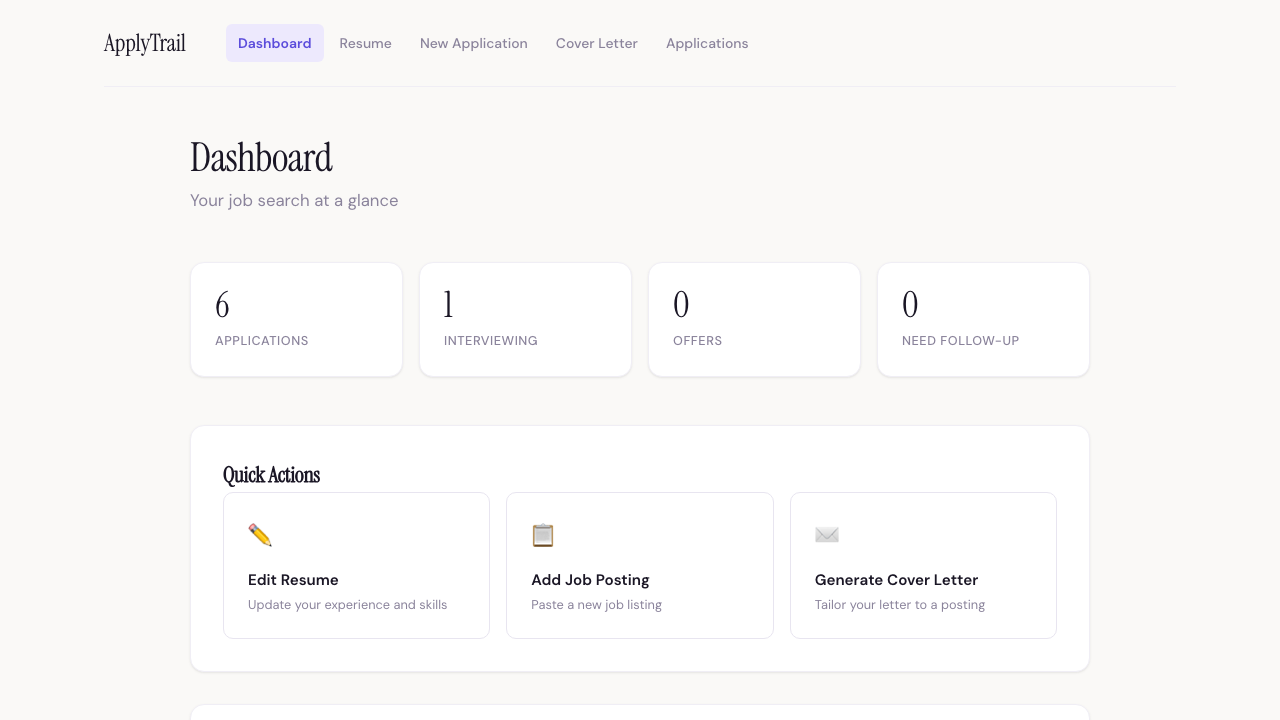
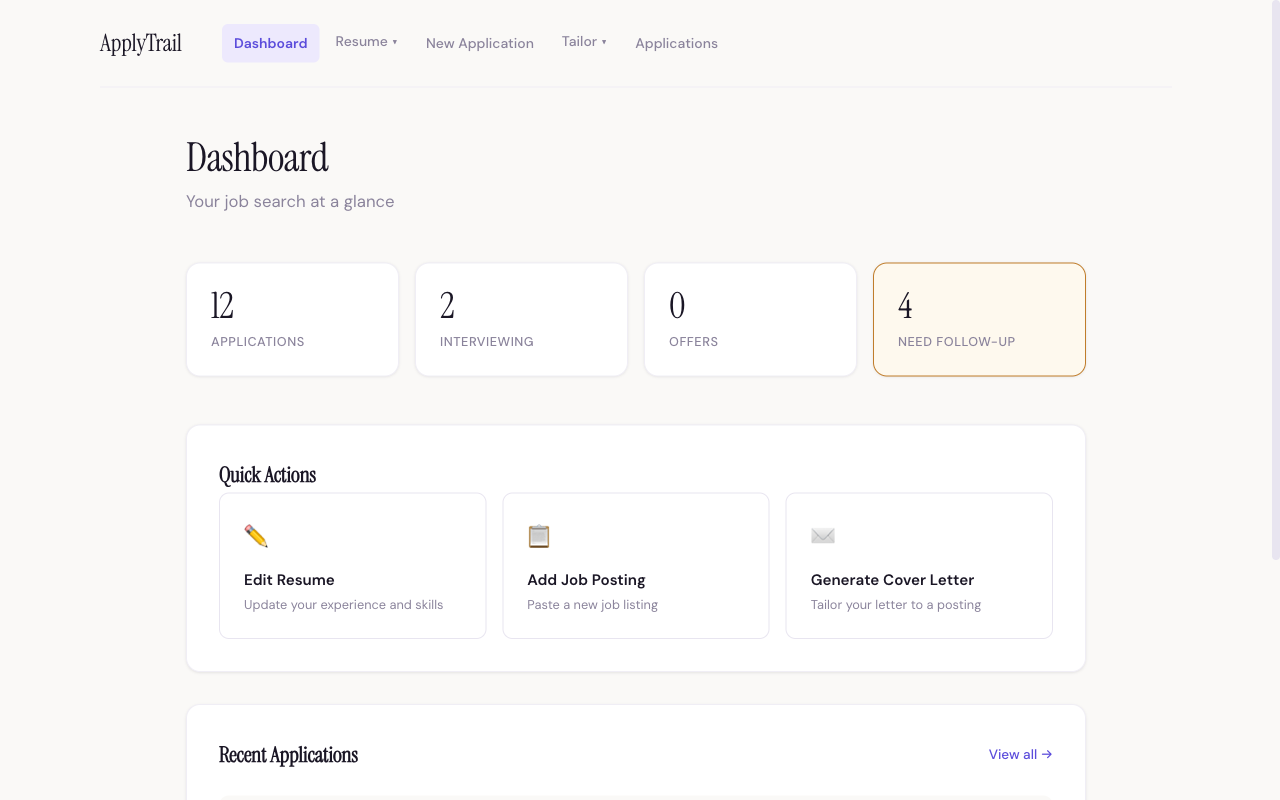
docs: refresh README screenshots at consistent 1280x800 resolution
Retook dashboard, resume editor, and applications screenshots to fix
inconsistent capture dimensions, and added resume library, match
analysis, and review suggestions screenshots to showcase the tailoring
workflow.

diff --git a/README.md b/README.md
@@ -44,6 +44,23 @@ No login. No job-board scraping. No cloud account required to start.
 </tr>
 </table>
 
+<table>
+<tr>
+<td width="34%">
+<img src="docs/screenshots/resume-library.png" width="100%" alt="Resume library listing multiple tailored resume versions">
+<p align="center"><sub>Resume library with tailored versions</sub></p>
+</td>
+<td width="33%">
+<img src="docs/screenshots/analysis.png" width="100%" alt="Match analysis showing compatibility score, gaps, and keyword breakdown">
+<p align="center"><sub>Match analysis with compatibility score</sub></p>
+</td>
+<td width="33%">
+<img src="docs/screenshots/review-suggestions.png" width="100%" alt="Review suggestions page with accept, reject, and edit controls per suggestion">
+<p align="center"><sub>Section-by-section suggestion review</sub></p>
+</td>
+</tr>
+</table>
+
 ---
 
 ## How it works